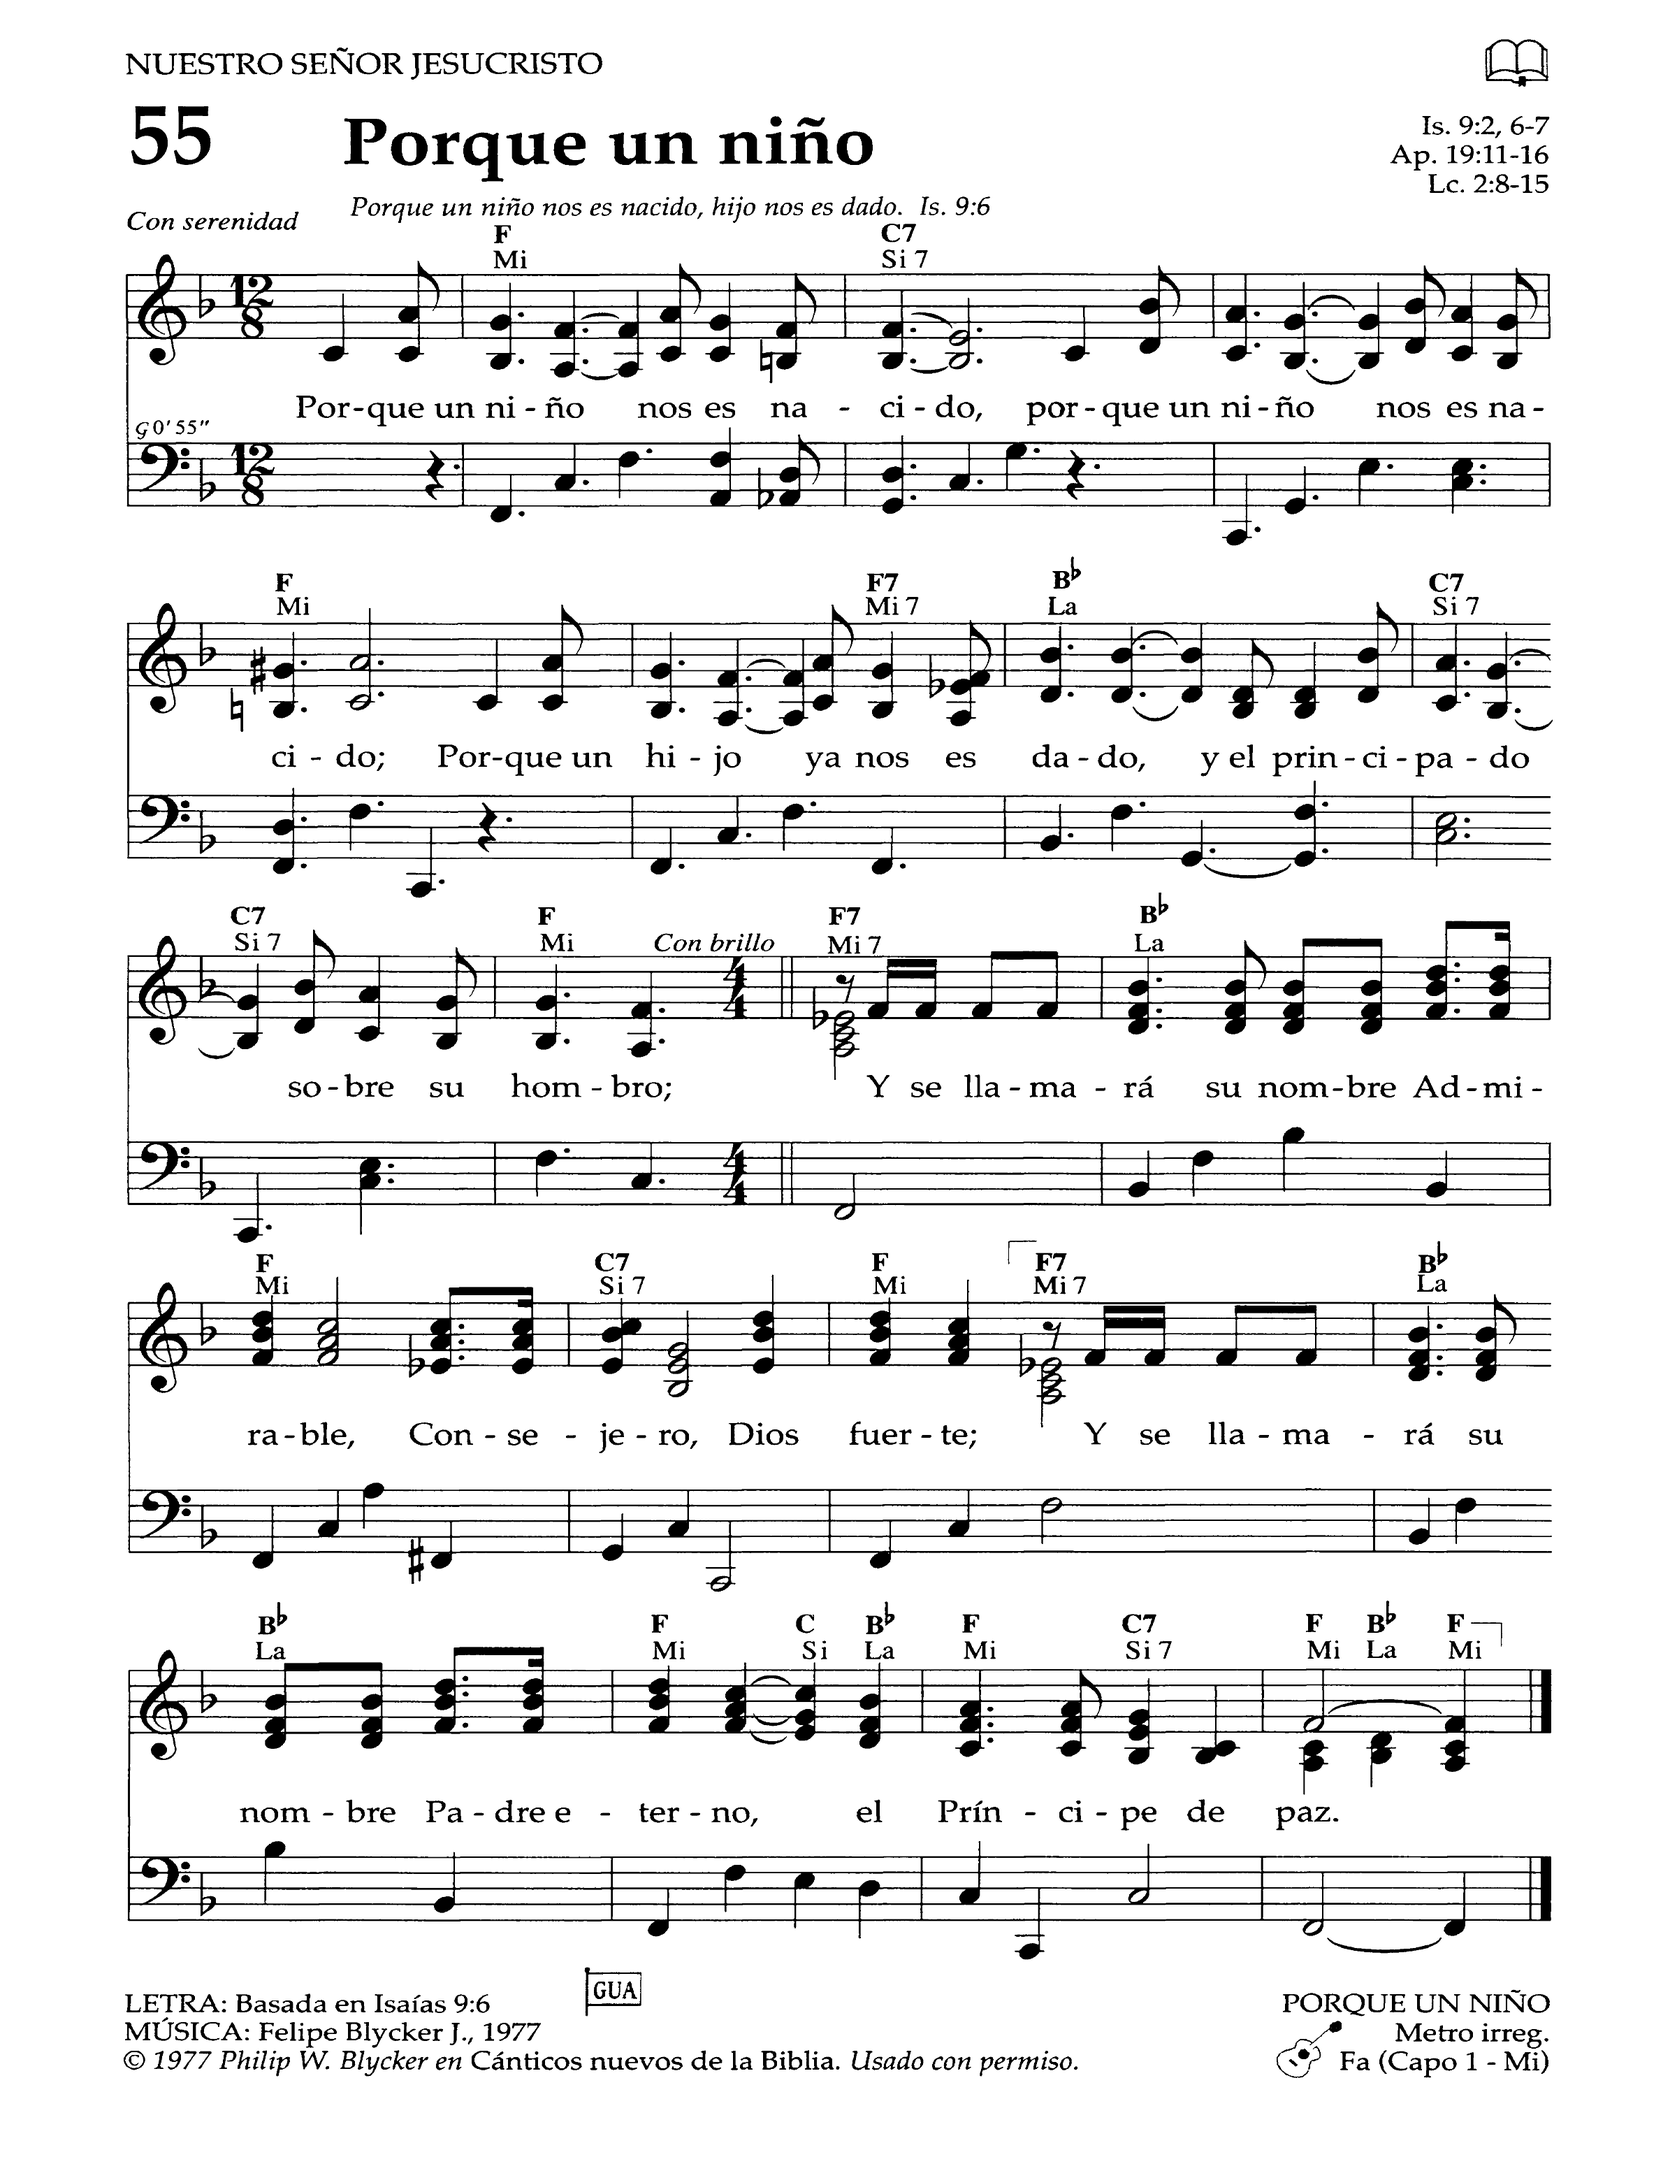
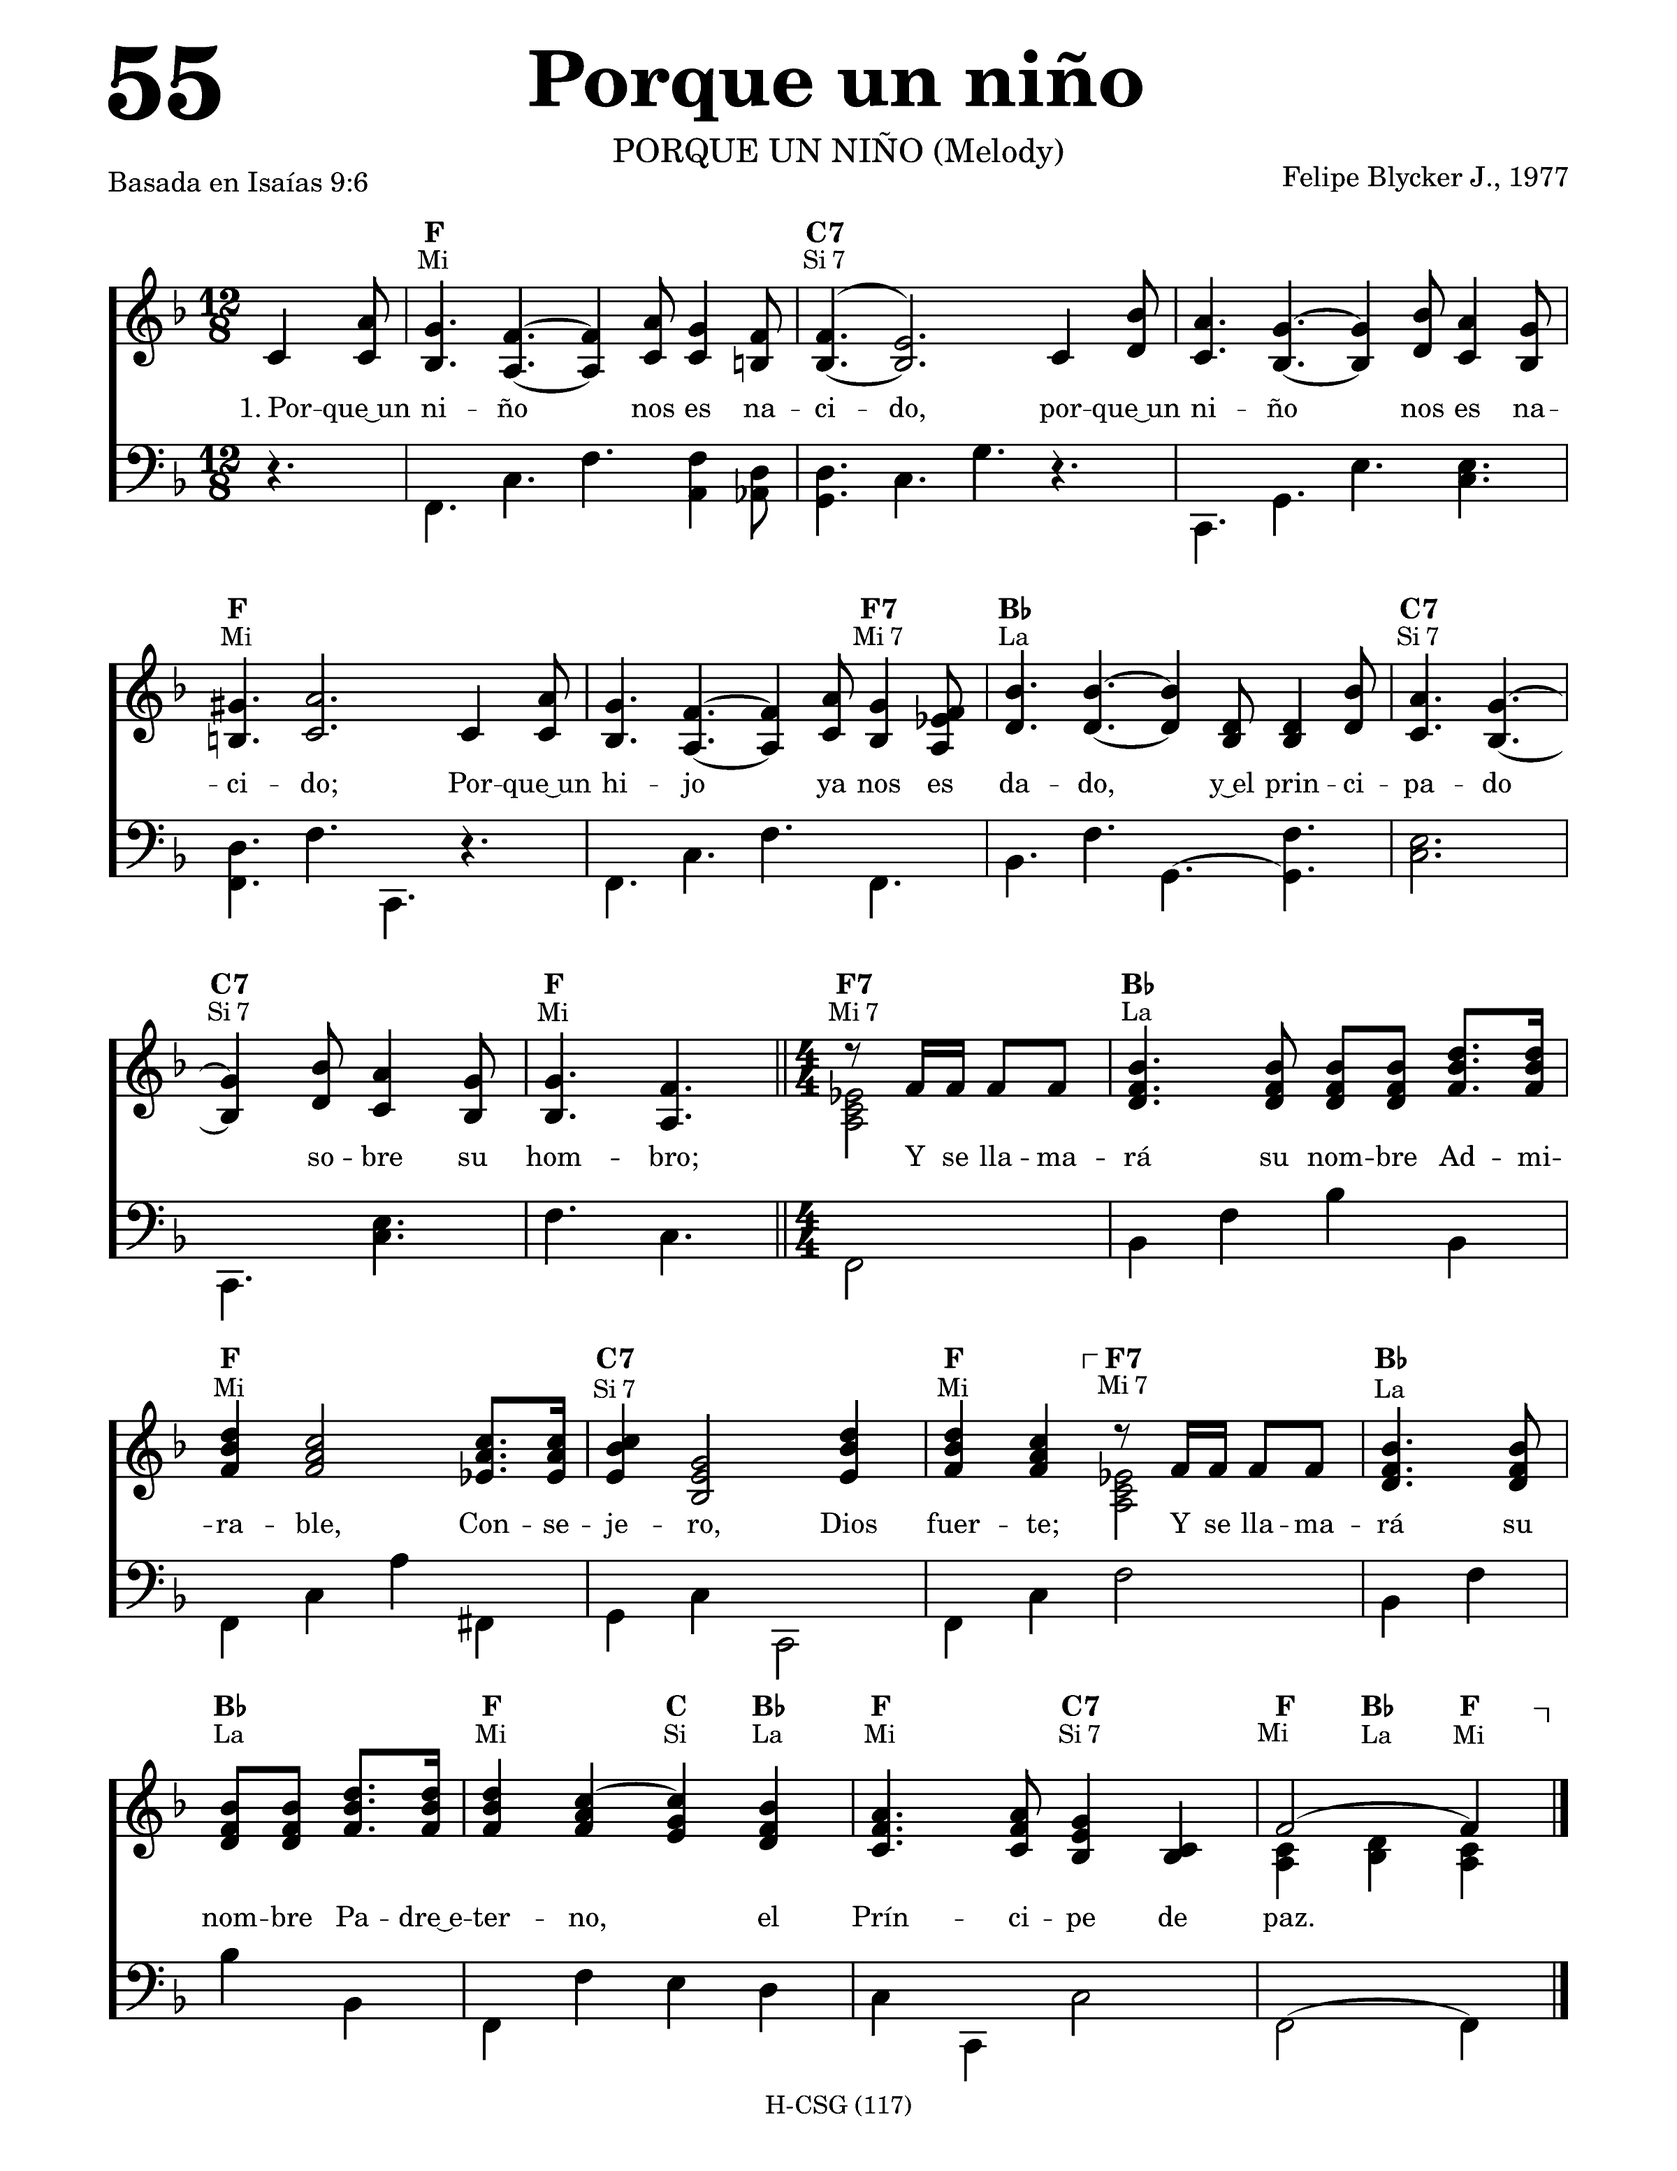
Actualizacion 1.9.3
Himnario navidennio

Changed region(s): [[0.0625, 0.0, 0.9375, 0.9681], [0.8125, 0.0312, 0.9375, 0.0937]]

diff --git a/lib/data/himnos_navidenno_sib.dart b/lib/data/himnos_navidenno_sib.dart
@@ -1,7 +1,7 @@
 import '../models/himno.dart';
 
-// Himnario Navideño Bautista para trompeta en Si♭: los himnos 1 al 32, con los mismos títulos que el
-// Navideño. Los que todavía no están transcritos (25, 26, 27, 29, 31 y 32) tienen una hoja "Próximamente".
+// Himnario Navideño Bautista para trompeta en Si♭: los 65 himnos, con los mismos títulos que el Navideño.
+// Los que todavía no están transcritos tienen una hoja "Próximamente".
 final List<Himno> himnosNavidennoSib = [
   Himno(nombre: "Allá en el pesebre", numero: 1),
   Himno(nombre: "Al mundo paz", numero: 2),
@@ -35,4 +35,37 @@ final List<Himno> himnosNavidennoSib = [
   Himno(nombre: "Venid, fieles todos", numero: 30),
   Himno(nombre: "Guarda, ¿qué noticia das?", numero: 31),
   Himno(nombre: "Vamos magos hoy a Belén", numero: 32),
+  Himno(nombre: "De tierra lejana venimos", numero: 33),
+  Himno(nombre: "Desde el oriente azul", numero: 34),
+  Himno(nombre: "Diez mil aleluyas", numero: 35),
+  Himno(nombre: "El cumpleaños de un Rey", numero: 36),
+  Himno(nombre: "El pesebre", numero: 37),
+  Himno(nombre: "Emanuel", numero: 38),
+  Himno(nombre: "En Belén nació Jesús", numero: 39),
+  Himno(nombre: "En la noche los pastores", numero: 40),
+  Himno(nombre: "En sombrío invierno", numero: 41),
+  Himno(nombre: "Es Jesús, ¡qué bella historia!", numero: 42),
+  Himno(nombre: "Feliz Navidad", numero: 43),
+  Himno(nombre: "Allá en Belén", numero: 44),
+  Himno(nombre: "Gozo en luto", numero: 45),
+  Himno(nombre: "Hoy es Navidad", numero: 46),
+  Himno(nombre: "Hoy la nueva dad", numero: 47),
+  Himno(nombre: "Jesucristo hoy nació", numero: 48),
+  Himno(nombre: "Jesús es el Mesías", numero: 49),
+  Himno(nombre: "Las campanas de Navidad", numero: 50),
+  Himno(nombre: "Las campanas suenan ya", numero: 51),
+  Himno(nombre: "Navidad latina", numero: 52),
+  Himno(nombre: "Y tú, Belén", numero: 53),
+  Himno(nombre: "Niño santo, sufres tanto", numero: 54),
+  Himno(nombre: "Porque un niño", numero: 55),
+  Himno(nombre: "Riquezas de mil reinados", numero: 56),
+  Himno(nombre: "Marcha de los magos", numero: 57),
+  Himno(nombre: "Tierna María", numero: 58),
+  Himno(nombre: "Tras hermoso lucero", numero: 59),
+  Himno(nombre: "¡Qué gozo da!", numero: 60),
+  Himno(nombre: "Un canto de Belén cantad", numero: 61),
+  Himno(nombre: "Venid, pastorcillos", numero: 62),
+  Himno(nombre: "Venid, pastorcitos", numero: 63),
+  Himno(nombre: "Venid, pastores", numero: 64),
+  Himno(nombre: "Villancico de la estrella", numero: 65),
 ];

diff --git a/lib/screens/ayuda_screen.dart b/lib/screens/ayuda_screen.dart
@@ -163,7 +163,7 @@ class AyudaScreen extends StatelessWidget {
                   contenido: [
                     _Subtitulo('Descargar un himnario'),
                     _Punto(
-                      '"Descargar" guarda el himnario en el dispositivo (Ministerio Musical cerca de 29 MB, Himnario Navideño Bautista 6 MB, Himnos Majestuosos 72 MB, Himnos de Gracia 18 MB, Celebremos su Gloria 69 MB, Himnario Bautista 58 MB, El Nuevo Himnario Popular 46 MB, Himnario Navideño Bautista Si♭ 2 MB; mejor con Wi-Fi). Después funciona sin internet.',
+                      '"Descargar" guarda el himnario en el dispositivo (Ministerio Musical cerca de 29 MB, Himnario Navideño Bautista 5 MB, Himnos Majestuosos 72 MB, Himnos de Gracia 18 MB, Celebremos su Gloria 69 MB, Himnario Bautista 58 MB, El Nuevo Himnario Popular 46 MB, Himnario Navideño Bautista Si♭ 3 MB; mejor con Wi-Fi). Después funciona sin internet.',
                     ),
                     _Subtitulo(
                       'Verificar descargas (menú ⋮ de la pantalla principal)',

diff --git a/lib/services/version_app_service.dart b/lib/services/version_app_service.dart
@@ -7,7 +7,7 @@ import 'red_web.dart';
 /// segundo plano, que no vuelve a cargar su código por sí sola.
 class VersionAppService {
   /// La que se muestra al final de la Ayuda.
-  static const String version = '1.9.2';
+  static const String version = '1.9.3';
 
   static const String _despliegue = String.fromEnvironment('DESPLIEGUE');
 
